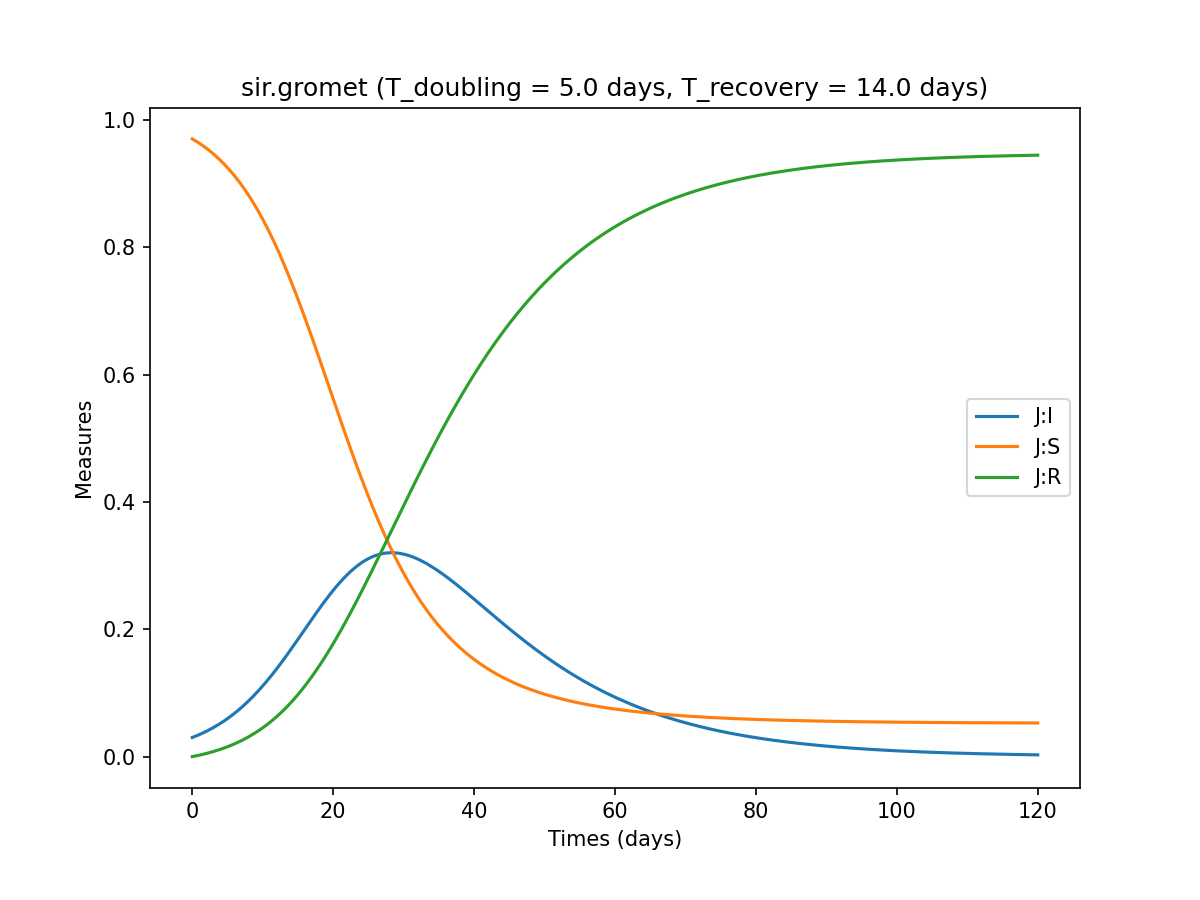
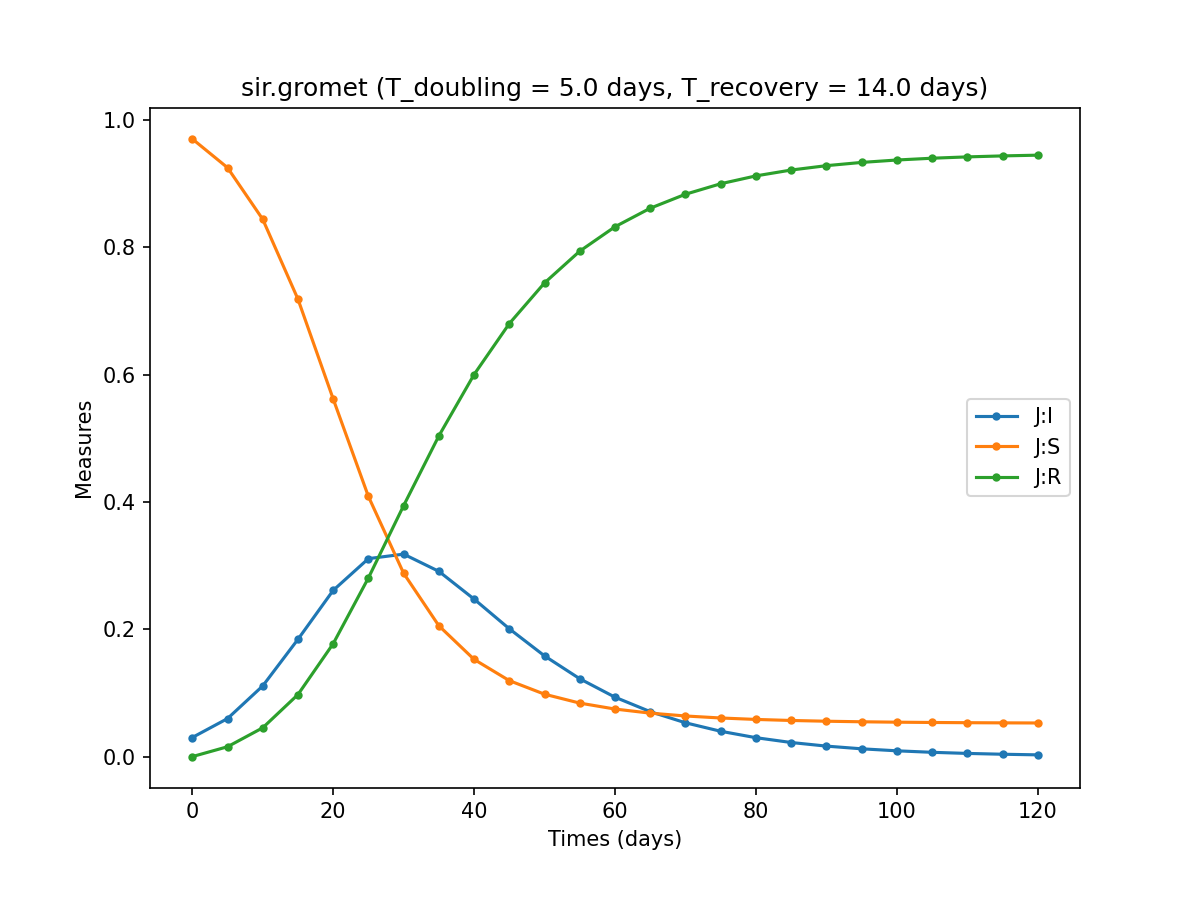
Add marker points to highlight 'step'

diff --git a/gromet/notebooks/7_donu_testing.py b/gromet/notebooks/7_donu_testing.py
@@ -243,7 +243,7 @@ request_body = {
     'definition': model_def,
     'start': 0,
     'end': 120,
-    'step': 0.5,
+    'step': 5,
     'parameters': parameters_set
 }
 
@@ -251,7 +251,7 @@ response_body = requests.post(DONU_ENDPOINT, json = request_body).json()
 
 # %%
 fig, ax = plt.subplots(nrows = 1, ncols = 1, figsize = (8, 6))
-__ = [ax.plot(response_body['result'][0]['times'], v, label = k) for k, v in response_body['result'][0]['values'].items()]
+__ = [ax.plot(response_body['result'][0]['times'], v, marker = '.', label = k) for k, v in response_body['result'][0]['values'].items()]
 __ = plt.setp(ax, xlabel = 'Times (days)', ylabel = 'Measures', title = f"{model_def['source']['model']} (T_doubling = {T_doubling} days, T_recovery = {T_recovery} days)")
 __ = ax.legend()
 
